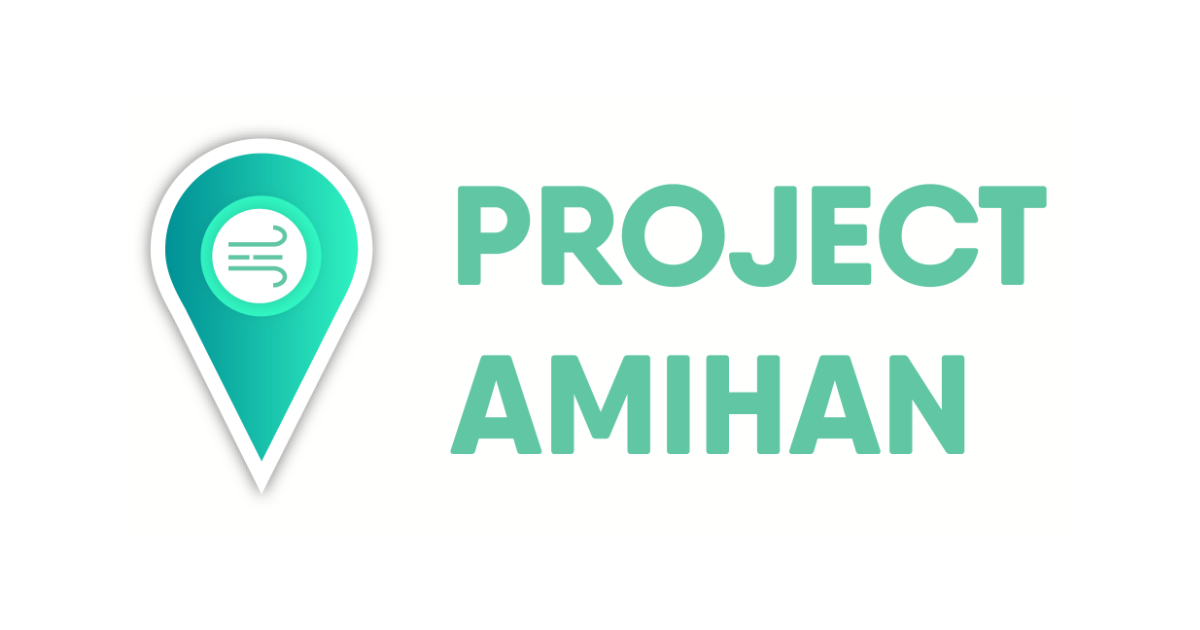
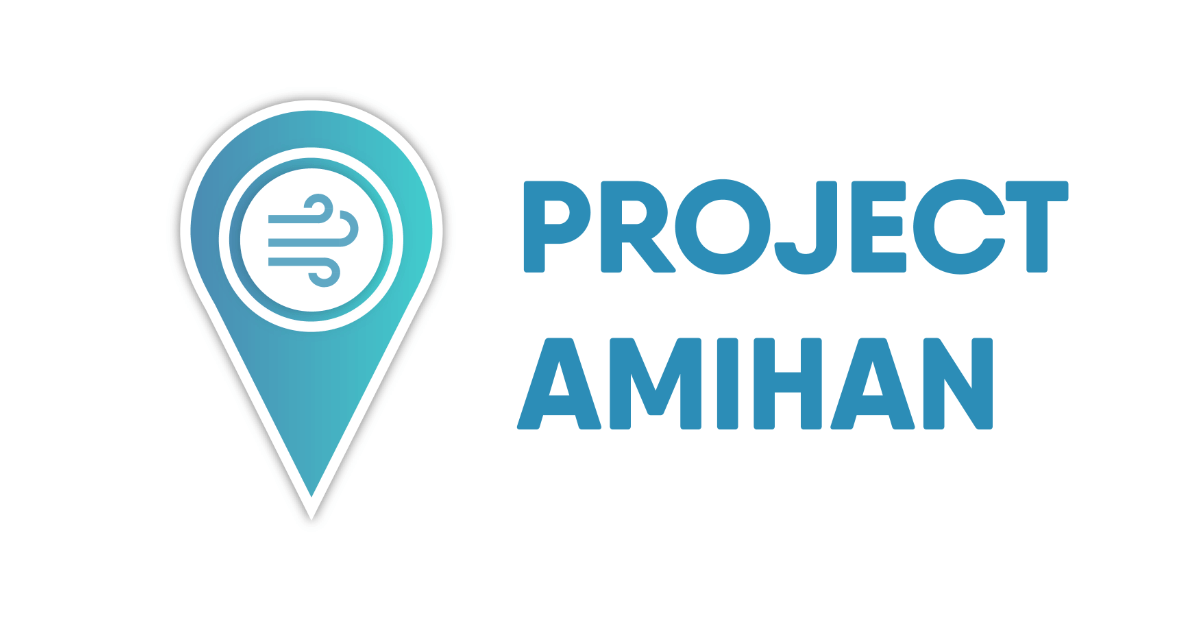
Updated Media and added Facebook Messenger Chat Box

Changed region(s): [[0.0925, 0.1508, 0.8942, 0.8444], [0.37, 0.5127, 0.8325, 0.7238]]

diff --git a/React/src/App.js b/React/src/App.js
@@ -1,6 +1,7 @@
 import React, { useState, useEffect } from 'react';
 import { Button, Container, Grid, Form, Message, Radio } from 'semantic-ui-react';
 import { Formik } from 'formik';
+import MessengerCustomerChat from 'react-messenger-customer-chat';
 
 const TableauEmbed = "<div class='tableauPlaceholder' id='viz1564565260018' style='position: relative'><noscript><a href='#'><img alt=' ' src='https:&#47;&#47;public.tableau.com&#47;static&#47;images&#47;Ai&#47;AirQualityStations&#47;AirQualityStationsLocationDashboard&#47;1_rss.png' style='border: none' /></a></noscript><object class='tableauViz'  style='display:none;'><param name='host_url' value='https%3A%2F%2Fpublic.tableau.com%2F' /> <param name='embed_code_version' value='3' /> <param name='site_root' value='' /><param name='name' value='AirQualityStations&#47;AirQualityStationsLocationDashboard' /><param name='tabs' value='no' /><param name='toolbar' value='yes' /><param name='static_image' value='https:&#47;&#47;public.tableau.com&#47;static&#47;images&#47;Ai&#47;AirQualityStations&#47;AirQualityStationsLocationDashboard&#47;1.png' /> <param name='animate_transition' value='yes' /><param name='display_static_image' value='yes' /><param name='display_spinner' value='yes' /><param name='display_overlay' value='yes' /><param name='display_count' value='yes' /></object></div>";
 
@@ -104,6 +105,11 @@ function App() {
                 <a style={{ paddingTop: '2rem' }} href="https://github.com/TeamOjt/Air-Quality-Monitoring-System">Are you a DIYer? Assemble your own Air Quality Station and help us contribute to the dataset!</a>
                 <p style={{ paddingTop: '2rem' }}>Made with love in the Philippines by the Philippine Innovation Network</p>
             </center>
+            <MessengerCustomerChat 
+                pageId="107222663954974"
+                themeColor="#63AABD"
+                appId=""
+            />
         </Container>
     );
 }
